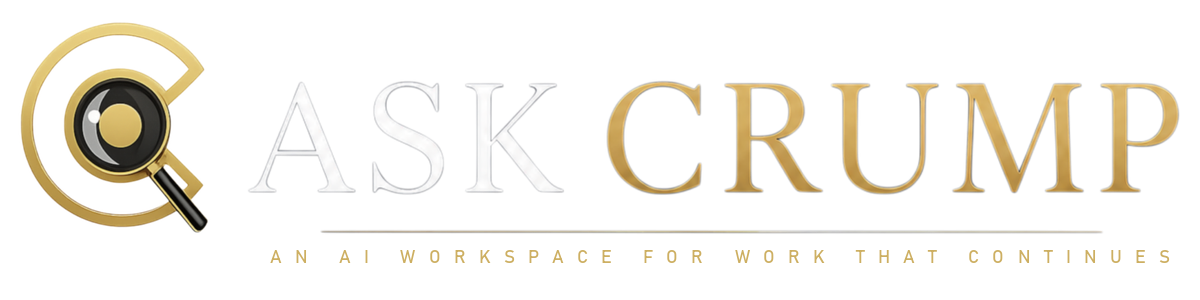
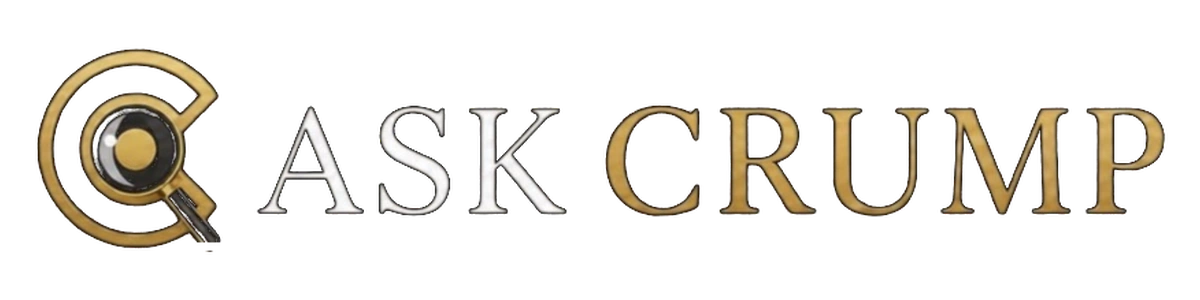
Restore main CI and cache integrity

diff --git a/public/app.html b/public/app.html
@@ -14,7 +14,7 @@
   <link rel="apple-touch-icon" sizes="180x180" href="/assets/ask-crump-app-icon-v2-180.png">
   <link rel="apple-touch-icon-precomposed" sizes="180x180" href="/assets/ask-crump-app-icon-v2-180.png">
   <link rel="preload" as="image" type="image/webp" href="/assets/brand/crump-mark-320.webp" fetchpriority="high">
-  <link rel="preload" as="image" type="image/webp" href="/assets/brand/crump-shell-lockup-light.webp" fetchpriority="high">
+  <link rel="preload" as="image" type="image/webp" href="/assets/brand/crump-shell-lockup-light.webp?v=5.9.76-shell-no-tagline-1" fetchpriority="high">
   <link rel="stylesheet" href="/styles.css">
   <link rel="stylesheet" href="/install-prompt.css?v=5.9.76">
   <link rel="stylesheet" href="/auth-styles.css">
@@ -26,7 +26,7 @@
 <div id="authContainer" class="auth-container v1-auth-shell" style="display:none;">
   <aside class="v1-auth-brand" aria-hidden="true">
     <div class="v1-auth-brand-top">
-      <img src="/assets/brand/crump-shell-lockup-light.webp" width="1200" height="300" alt="" class="v1-auth-brand-wordmark">
+      <img src="/assets/brand/crump-shell-lockup-light.webp?v=5.9.76-shell-no-tagline-1" width="1200" height="300" alt="" class="v1-auth-brand-wordmark">
     </div>
     <div class="v1-auth-manifesto">
       <div class="v1-kicker">YOUR AI WORKSPACE</div>
@@ -40,7 +40,7 @@
 
   <main class="v1-auth-stage">
     <div class="v1-auth-mobile-brand" aria-hidden="true">
-      <img src="/assets/brand/crump-shell-lockup-light.webp" width="1200" height="300" alt="">
+      <img src="/assets/brand/crump-shell-lockup-light.webp?v=5.9.76-shell-no-tagline-1" width="1200" height="300" alt="">
     </div>
 
     <div id="loginForm" class="auth-form v1-auth-card">
@@ -220,7 +220,7 @@
 <!-- ONBOARDING -->
 <div id="onboardingModal" class="modal v1-modal" style="display:none;" role="dialog" aria-modal="true" aria-labelledby="onboardingTitle">
   <div class="modal-content onboarding-modal v1-onboarding-card">
-    <img src="/assets/brand/crump-shell-lockup-light.webp" width="1200" height="300" loading="lazy" decoding="async" alt="Ask Crump — An AI workspace for work that continues" class="onboarding-logo">
+    <img src="/assets/brand/crump-shell-lockup-light.webp?v=5.9.76-shell-no-tagline-1" width="1200" height="300" loading="lazy" decoding="async" alt="Ask Crump" class="onboarding-logo">
     <div class="v1-kicker">OPTIONAL PERSONALIZATION</div>
     <h2 id="onboardingTitle">What should Crump call you?</h2>
     <p class="modal-subtitle">Add a name for personalized greetings across your signed-in devices. You can also do this later in Settings.</p>
@@ -281,7 +281,7 @@
     <aside id="sidebar" class="sidebar v1-library" aria-label="Chats" aria-hidden="false">
       <div class="sidebar-header v1-library-header">
         <div class="sidebar-branding">
-          <img src="/assets/brand/crump-shell-lockup-light.webp" width="1200" height="300" loading="eager" decoding="sync" fetchpriority="high" alt="Ask Crump — An AI workspace for work that continues" class="v1-library-logo">
+          <img src="/assets/brand/crump-shell-lockup-light.webp?v=5.9.76-shell-no-tagline-1" width="1200" height="300" loading="eager" decoding="sync" fetchpriority="high" alt="Ask Crump" class="v1-library-logo">
         </div>
         <button id="closeSidebarBtn" type="button" class="btn-icon v1-library-close" aria-label="Close Chats">
           <svg viewBox="0 0 24 24" aria-hidden="true"><path d="M18 6 6 18M6 6l12 12"/></svg>
@@ -334,7 +334,7 @@
         </button>
 
         <div class="header-branding v1-header-branding">
-          <img src="/assets/brand/crump-shell-lockup-light.webp" width="1200" height="300" loading="eager" decoding="sync" fetchpriority="high" alt="Ask Crump" class="v1-header-logo v1-body-header-logo">
+          <img src="/assets/brand/crump-shell-lockup-light.webp?v=5.9.76-shell-no-tagline-1" width="1200" height="300" loading="eager" decoding="sync" fetchpriority="high" alt="Ask Crump" class="v1-header-logo v1-body-header-logo">
         </div>
 
         <div class="v1-workspace-context">
@@ -624,7 +624,7 @@
             </a>
           </div>
           <div class="v1-about-signature">
-            <img src="/assets/brand/crump-shell-lockup-light.webp" width="1200" height="300" loading="lazy" decoding="async" alt="Ask Crump — An AI workspace for work that continues">
+            <img src="/assets/brand/crump-shell-lockup-light.webp?v=5.9.76-shell-no-tagline-1" width="1200" height="300" loading="lazy" decoding="async" alt="Ask Crump">
             <span>Ask Crump 5.9.76 · Built to think, make, and continue.</span>
           </div>
         </section>
@@ -637,7 +637,7 @@
 <input type="file" id="fileInput" accept="image/*,.pdf,.docx,.xlsx,.pptx,.txt,.md,.csv,.tsv,.json,.html,.rtf" aria-label="Choose an attachment" hidden>
 
 <script defer src="/telemetry-config.js?v=5.9.76"></script>
-<script defer src="/runtime-body-v1.js?v=5.9.76-muse-release-repair-1"></script>
+<script defer src="/runtime-body-v1.js?v=5.9.76-cache-integrity-1"></script>
 <script defer src="/native-runtime.js"></script>
 <script defer src="/mobile-bridge.js"></script>
 <script defer src="/safe-storage.js"></script>

diff --git a/public/sw.js b/public/sw.js
@@ -19,23 +19,23 @@ const CORE = [
   '/credit-confirmation.css?v=5.9.76-credit-confirmation-1',
   '/lifecycle.css?v=5.9.76-lifecycle-activation-1',
   '/crump-design-pass.css?v=5.9.76-mascot-face-1',
-  '/crump-v1-body.js?v=5.9.76-muse-release-repair-1',
+  '/crump-v1-body.js?v=5.9.76-shell-brand-alt-1',
   '/crump-v1-stability.css',
   '/crump-v1-stability.js?v=5.9.76-intelligence-architecture-1',
   '/crump-navigation-5.2.5.css',
   '/crump-navigation-5.2.5.js?v=5.9.76-chats-language-1',
-  '/crump-navigation-5.9.30.css?v=5.9.76-mobile-drawer-destinations-1',
+  '/crump-navigation-5.9.30.css?v=5.9.76-nav-focus-visibility-1',
   '/crump-navigation-5.9.30.js?v=5.9.76-image-studio-entry-1',
   '/crump-code-loader.js?v=5.9.76-code-lazy-load-1',
-  '/crump-product-loader.js?v=5.9.76-reference-fidelity-hard-contract-1',
+  '/crump-product-loader.js?v=5.9.76-projects-empty-state-1',
   '/crump-product-5.3.1.css',
   '/crump-product-5.3.1.js?v=5.9.76-conversation-action-labels-2',
   '/crump-polish-5.6.css',
   '/crump-polish-5.6.js?v=5.9.76-video-destination-1',
   '/crump-media-save.js?v=5.9.76-library-lazy-load-1',
-  '/crump-library-loader.js?v=5.9.76-library-lazy-load-1',
+  '/crump-library-loader.js?v=5.9.76-library-first-run-1',
   '/crump-subscriptions-5.3.2.js?v=5.9.76-checkout-destination-label-1',
-  '/runtime-body-v1.js?v=5.9.76-muse-release-repair-1',
+  '/runtime-body-v1.js?v=5.9.76-cache-integrity-1',
   '/native-runtime.js',
   '/mobile-bridge.js',
   '/safe-storage.js',
@@ -72,7 +72,7 @@ const CORE = [
   '/crump-5.2.js?v=5.9.76-plan-status-line-1',
   '/crump-5.2.2.css?v=5.9.76-new-response-cue-1',
   '/crump-5.2.2.js?v=5.9.76-muse-release-repair-1',
-  '/assets/brand/crump-shell-lockup-light.webp',
+  '/assets/brand/crump-shell-lockup-light.webp?v=5.9.76-shell-no-tagline-1',
   '/assets/brand/crump-mascot.png',
 ];
 

diff --git a/public/crump-v1-body.js b/public/crump-v1-body.js
@@ -6,7 +6,7 @@
 
   const BRAND = Object.freeze({
     mark: '/assets/brand/crump-mark-320.webp',
-    horizontalLight: '/assets/brand/crump-shell-lockup-light.webp',
+    horizontalLight: '/assets/brand/crump-shell-lockup-light.webp?v=5.9.76-shell-no-tagline-1',
   });
 
   const $ = (selector, root = document) => root.querySelector(selector);
@@ -32,7 +32,7 @@
     const existing = host.querySelector(':scope > img');
     if (existing) {
       if (existing.getAttribute('src') !== BRAND.horizontalLight) existing.src = BRAND.horizontalLight;
-      existing.alt = 'Ask Crump — An AI workspace for work that continues';
+      existing.alt = 'Ask Crump';
       existing.classList.add('v1-header-logo', 'v1-body-header-logo');
       existing.width = 1200;
       existing.height = 300;
@@ -44,7 +44,7 @@
     host.replaceChildren(makeImage(
       BRAND.horizontalLight,
       'v1-header-logo v1-body-header-logo',
-      'Ask Crump — An AI workspace for work that continues',
+      'Ask Crump',
       true,
     ));
   }
@@ -55,7 +55,7 @@
     const existing = host.querySelector(':scope > .v1-library-logo');
     if (existing && host.children.length === 1) {
       if (existing.getAttribute('src') !== BRAND.horizontalLight) existing.src = BRAND.horizontalLight;
-      existing.alt = 'Ask Crump — An AI workspace for work that continues';
+      existing.alt = 'Ask Crump';
       existing.width = 1200;
       existing.height = 300;
       existing.loading = 'eager';
@@ -66,7 +66,7 @@
     host.replaceChildren(makeImage(
       BRAND.horizontalLight,
       'v1-library-logo',
-      'Ask Crump — An AI workspace for work that continues',
+      'Ask Crump',
       true,
     ));
   }

diff --git a/public/runtime-body-v1.js b/public/runtime-body-v1.js
@@ -70,18 +70,18 @@ window.CRUMP_CONFIG = Object.freeze({
     ['/crump-billing-5.1.js?v=5.9.76-checkout-destination-label-1', 'billing51'],
     ['/crump-5.2.js?v=5.9.76-plan-status-line-1', 'crump52'],
     ['/crump-5.2.2.js?v=5.9.76-muse-release-repair-1', 'crump522'],
-    ['/crump-v1-body.js?v=5.9.76-muse-release-repair-1', 'crumpbodyv1'],
+    ['/crump-v1-body.js?v=5.9.76-shell-brand-alt-1', 'crumpbodyv1'],
     ['/crump-v1-stability.js?v=5.9.76-intelligence-architecture-1', 'crumpv1stability'],
   ]);
 
   const finalScripts = Object.freeze([
     ['/crump-navigation-5.2.5.js?v=5.9.76-chats-language-1', 'crumpnav525'],
-    ['/crump-product-loader.js?v=5.9.76-reference-fidelity-hard-contract-1', 'crumpproductloader'],
+    ['/crump-product-loader.js?v=5.9.76-projects-empty-state-1', 'crumpproductloader'],
     ['/crump-product-5.3.1.js?v=5.9.76-conversation-action-labels-2', 'crumpproduct531'],
     ['/crump-subscriptions-5.3.2.js?v=5.9.76-checkout-destination-label-1', 'crumpsubscriptions532'],
     ['/crump-polish-5.6.js?v=5.9.76-video-destination-1', 'crumppolish56'],
     ['/crump-media-save.js?v=5.9.76-library-lazy-load-1', 'crumpmediasave'],
-    ['/crump-library-loader.js?v=5.9.76-library-lazy-load-1', 'crumplibraryloader'],
+    ['/crump-library-loader.js?v=5.9.76-library-first-run-1', 'crumplibraryloader'],
     ['/crump-navigation-5.9.30.js?v=5.9.76-image-studio-entry-1', 'crumpnav5930'],
     ['/crump-code-loader.js?v=5.9.76-code-lazy-load-1', 'crumpcodeloader'],
     ['/lifecycle-share.js?v=5.9.76-settings-invite-1', 'lifecycleshare'],

diff --git a/tests/fixtures/conversation-library-discovery.html b/tests/fixtures/conversation-library-discovery.html
@@ -38,7 +38,7 @@
     <aside id="sidebar" class="sidebar v1-library" aria-label="Chats" aria-hidden="false">
       <div class="sidebar-header v1-library-header">
         <div class="sidebar-branding">
-          <img src="/public/assets/brand/crump-shell-lockup-light.webp" width="1200" height="300" loading="eager" decoding="sync" fetchpriority="high" alt="Ask Crump — An AI workspace for work that continues" class="v1-library-logo">
+          <img src="/public/assets/brand/crump-shell-lockup-light.webp?v=5.9.76-shell-no-tagline-1" width="1200" height="300" loading="eager" decoding="sync" fetchpriority="high" alt="Ask Crump" class="v1-library-logo">
         </div>
       </div>
       <div class="sidebar-actions v1-library-actions">

diff --git a/tests/fixtures/marketing-workflow-proof.html b/tests/fixtures/marketing-workflow-proof.html
@@ -46,7 +46,7 @@
   <div id="appContainer" class="app-container" style="display:flex">
     <main class="proof-shell" aria-label="Ask Crump workspace">
       <header class="proof-header">
-        <img src="/public/assets/brand/crump-shell-lockup-light.webp" width="1200" height="300" alt="Ask Crump — An AI workspace for work that continues">
+        <img src="/public/assets/brand/crump-shell-lockup-light.webp?v=5.9.76-shell-no-tagline-1" width="1200" height="300" alt="Ask Crump">
         <div class="proof-context"><span>WORKSPACE</span><strong id="proofTitle">New conversation</strong></div>
       </header>
       <section class="proof-workspace">

diff --git a/tests/test_button_integrity.py b/tests/test_button_integrity.py
@@ -22,10 +22,10 @@ EXPECTED_BUTTON_INVENTORY = {
     "public/crump-5.2.js": 5,
     "public/crump-billing-5.1.js": 3,
     "public/crump-code-5.9.35.js": 4,
-    "public/crump-library-5.7.js": 41,
+    "public/crump-library-5.7.js": 43,
     "public/crump-navigation-5.9.30.js": 4,
     "public/crump-product-5.3.1.js": 10,
-    "public/crump-product-5.3.js": 57,
+    "public/crump-product-5.3.js": 58,
     "public/install-prompt.js": 2,
     "public/lifecycle-manager.js": 2,
     "public/subscription-ui.js": 3,
@@ -289,7 +289,7 @@ def test_rendered_button_inventory_requires_explicit_review() -> None:
             inventory[page.relative_to(ROOT).as_posix()] = len(parser.buttons)
 
     assert inventory == EXPECTED_BUTTON_INVENTORY
-    assert sum(inventory.values()) == 190
+    assert sum(inventory.values()) == 193
 
 
 def test_programmatically_created_button_inventory_requires_explicit_review() -> None:
@@ -301,7 +301,7 @@ def test_programmatically_created_button_inventory_requires_explicit_review() ->
 
     assert inventory == DYNAMIC_BUTTON_INVENTORY
     assert sum(inventory.values()) == 99
-    assert sum(EXPECTED_BUTTON_INVENTORY.values()) + sum(inventory.values()) == 289
+    assert sum(EXPECTED_BUTTON_INVENTORY.values()) + sum(inventory.values()) == 292
 
 
 def test_programmatically_created_buttons_declare_type_and_runtime_owner() -> None:
@@ -580,7 +580,7 @@ def test_send_button_is_really_disabled_until_the_composer_has_content() -> None
 
 
 def test_send_button_actionability_release_is_cache_addressable_everywhere() -> None:
-    asset = "/crump-4.3.js?v=5.9.76-composer-actionability-1"
+    asset = "/crump-4.3.js?v=5.9.76-mascot-face-1"
 
     for relative in ("public/runtime-body-v1.js", "public/sw.js", "scripts/build-native.mjs"):
         assert asset in (ROOT / relative).read_text(encoding="utf-8")
@@ -701,7 +701,7 @@ def test_library_layout_buttons_expose_their_selected_state() -> None:
 
 
 def test_library_new_button_release_is_loaded_only_on_library_entry() -> None:
-    asset = "/crump-library-5.7.js?v=5.9.76-library-new-routing-1"
+    asset = "/crump-library-5.7.js?v=5.9.76-library-first-run-1"
     loader = (PUBLIC / "crump-library-loader.js").read_text(encoding="utf-8")
 
     assert asset in loader

diff --git a/tests/test_static_assets.py b/tests/test_static_assets.py
@@ -102,7 +102,7 @@ def test_signed_out_entry_eagerly_loads_only_visible_brand_images():
     brand_images = [
         image for image in parser.images
         if image.get('src') in {
-            '/assets/brand/crump-shell-lockup-light.webp',
+            '/assets/brand/crump-shell-lockup-light.webp?v=5.9.76-shell-no-tagline-1',
             '/assets/brand/crump-mark-320.webp',
         }
     ]
@@ -110,7 +110,8 @@ def test_signed_out_entry_eagerly_loads_only_visible_brand_images():
     deferred_images = [image for image in brand_images if image.get('loading') == 'lazy']
 
     assert len(eager_images) == 5
-    assert sum(image['src'] == '/assets/brand/crump-shell-lockup-light.webp' for image in eager_images) == 4
+    shell_brand = '/assets/brand/crump-shell-lockup-light.webp?v=5.9.76-shell-no-tagline-1'
+    assert sum(image['src'] == shell_brand for image in eager_images) == 4
     startup_mark = next(image for image in eager_images if image['src'] == '/assets/brand/crump-mark-320.webp')
     assert startup_mark.get('loading') == 'eager'
     assert startup_mark.get('decoding') == 'sync'
@@ -120,13 +121,13 @@ def test_signed_out_entry_eagerly_loads_only_visible_brand_images():
     assert header_logo.get('fetchpriority') == 'high'
     assert header_logo.get('width') == '1200'
     assert header_logo.get('height') == '300'
-    assert 'An AI workspace for work that continues' in header_logo.get('alt', '')
+    assert header_logo.get('alt') == 'Ask Crump'
     library_logo = next(image for image in eager_images if 'v1-library-logo' in image.get('class', '').split())
     assert library_logo.get('decoding') == 'sync'
     assert library_logo.get('fetchpriority') == 'high'
     assert library_logo.get('width') == '1200'
     assert library_logo.get('height') == '300'
-    assert 'An AI workspace for work that continues' in library_logo.get('alt', '')
+    assert library_logo.get('alt') == 'Ask Crump'
     assert len(deferred_images) == len(brand_images) - 5
     assert all(image.get('decoding') == 'async' for image in deferred_images)
     assert all(image.get('width') and image.get('height') for image in brand_images)

diff --git a/tests/test_workspace_runtime_fetch_plan.py b/tests/test_workspace_runtime_fetch_plan.py
@@ -53,7 +53,7 @@ def test_parallel_runtime_asset_is_versioned_for_web_pwa_and_native():
     worker = read("public/sw.js")
     checker = read("scripts/check-javascript.mjs")
 
-    asset = "/runtime-body-v1.js?v=5.9.76-muse-release-repair-1"
+    asset = "/runtime-body-v1.js?v=5.9.76-cache-integrity-1"
     assert asset in shell
     assert asset in worker
     assert "ask-crump-new-body-v1-r254" in worker
@@ -87,7 +87,7 @@ def test_runtime_fetch_fixture_is_credential_free_and_measures_the_full_plan():
     assert "askcrump.com" not in fixture.lower()
     assert "verify-workspace-runtime-fetch-plan.cjs" in matrix
     assert "evidence.maxStyles, 17" in verifier
-    assert "evidence.lastStyle, '/crump-design-pass.css?v=5.9.76-muse-release-repair-1'" in verifier
+    assert "evidence.lastStyle, '/crump-design-pass.css?v=5.9.76-mascot-face-1'" in verifier
     assert "evidence.preloadCount, 34" in verifier
     assert "mode === 'style-retry' ? 19 : 18" in verifier
     assert "mode === 'script-retry' ? 35 : 34" in verifier
@@ -134,7 +134,7 @@ def test_image_studio_entry_replaces_the_frozen_r252_runtime_cache():
     ):
         assert old_url in verifier
     for new_url in (
-        "/runtime-body-v1.js?v=5.9.76-muse-release-repair-1",
+        "/runtime-body-v1.js?v=5.9.76-cache-integrity-1",
         "/crump-navigation-5.9.30.js?v=5.9.76-image-studio-entry-1",
         "/auth-controller.js?v=5.9.76-image-studio-entry-1",
     ):
@@ -152,7 +152,9 @@ def test_muse_release_repair_replaces_the_immediate_r253_runtime_cache():
 
     assert "oldCacheName = 'ask-crump-new-body-v1-r253'" in verifier
     assert "newCacheName = 'ask-crump-new-body-v1-r254'" in verifier
-    assert "5.9.76-muse-release-repair-1" in verifier
+    assert "async function loadNewUrls()" in verifier
+    assert "current versioned asset URLs" in verifier
+    assert "muse-feel-pass-N or mascot-face-N" in verifier
     assert "userControlledViewport: true" in verifier
     assert "cachedRepairAssets: true" in verifier
     assert "verify-muse-release-cache-upgrade.cjs" in matrix

diff --git a/tests/test_product53_contract.py b/tests/test_product53_contract.py
@@ -12,14 +12,14 @@ def test_product53_runtime_is_lazy_loaded_and_cache_addressable():
     worker = read("public/sw.js")
     checker = read("scripts/check-javascript.mjs")
     loader = read("public/crump-product-loader.js")
-    assert "/crump-product-loader.js?v=5.9.76-reference-fidelity-hard-contract-1" in runtime
-    assert "/crump-product-loader.js?v=5.9.76-reference-fidelity-hard-contract-1" in worker
+    assert "/crump-product-loader.js?v=5.9.76-projects-empty-state-1" in runtime
+    assert "/crump-product-loader.js?v=5.9.76-projects-empty-state-1" in worker
     assert "/crump-product-5.3.css?v=5.9.76-reference-fidelity-hard-contract-1" not in runtime
     assert "/crump-product-5.3.js?v=5.9.76-reference-fidelity-hard-contract-1" not in runtime
     assert "/crump-product-5.3.css?v=5.9.76-reference-fidelity-hard-contract-1" not in worker
     assert "/crump-product-5.3.js?v=5.9.76-reference-fidelity-hard-contract-1" not in worker
-    assert "/crump-product-5.3.css?v=5.9.76-reference-fidelity-hard-contract-1" in loader
-    assert "/crump-product-5.3.js?v=5.9.76-reference-fidelity-hard-contract-1" in loader
+    assert "/crump-product-5.3.css?v=5.9.76-projects-empty-state-1" in loader
+    assert "/crump-product-5.3.js?v=5.9.76-projects-empty-state-1" in loader
     assert runtime.index("/crump-navigation-5.2.5.js") < runtime.index("/crump-product-loader.js")
     assert "ask-crump-new-body-v1-r254" in worker
     assert "crump-product-5.3.js" in checker

diff --git a/tests/test_header_brand_stability.py b/tests/test_header_brand_stability.py
@@ -30,18 +30,17 @@ def test_visible_library_brand_is_also_normalized_as_a_critical_image():
     body = read("public/crump-v1-body.js")
 
     assert "const existing = host.querySelector(':scope > .v1-library-logo');" in body
-    assert "'Ask Crump — An AI workspace for work that continues',\n      true," in body
-    assert "horizontalLight: '/assets/brand/crump-shell-lockup-light.webp'" in body
+    assert "'Ask Crump',\n      true," in body
+    assert "horizontalLight: '/assets/brand/crump-shell-lockup-light.webp?v=5.9.76-shell-no-tagline-1'" in body
 
 
-def test_workspace_positioning_is_part_of_the_canonical_brand_asset():
+def test_workspace_positioning_asset_cannot_overwrite_the_shell_lockup():
     generator = read("scripts/generate_workspace_brand_asset.py")
 
     assert 'TAGLINE = "AN AI WORKSPACE FOR WORK THAT CONTINUES"' in generator
     assert 'SOURCE_WORDMARK = ROOT / "public" / "assets" / "brand" / "crump-horizontal-light.png"' in generator
     assert 'WORDMARK = ROOT / "public" / "assets" / "brand" / "crump-workspace-lockup-light.png"' in generator
-    assert 'SHELL_WORDMARK = ROOT / "public" / "assets" / "brand" / "crump-shell-lockup-light.png"' in generator
-    assert 'shell = Image.new("RGBA", (1200, 300)' in generator
+    assert 'crump-shell-lockup-light' not in generator
 
 
 def test_shell_lockup_uses_exact_paint_boxes():

diff --git a/scripts/generate_workspace_brand_asset.py b/scripts/generate_workspace_brand_asset.py
@@ -8,7 +8,6 @@ from PIL import Image, ImageDraw, ImageFont
 ROOT = Path(__file__).resolve().parents[1]
 SOURCE_WORDMARK = ROOT / "public" / "assets" / "brand" / "crump-horizontal-light.png"
 WORDMARK = ROOT / "public" / "assets" / "brand" / "crump-workspace-lockup-light.png"
-SHELL_WORDMARK = ROOT / "public" / "assets" / "brand" / "crump-shell-lockup-light.png"
 TAGLINE = "AN AI WORKSPACE FOR WORK THAT CONTINUES"
 TAGLINE_TOP = 238
 TAGLINE_X = 270
@@ -68,16 +67,6 @@ def main() -> None:
     temporary = WORDMARK.with_suffix(".tmp.png")
     image.save(temporary, format="PNG", optimize=True)
     temporary.replace(WORDMARK)
-
-    # The application shell renders the lockup at exact 4:1 boxes. A dedicated
-    # 1200x300 canvas avoids fractional image scaling during the authenticated
-    # runtime handoff while preserving the approved social-positioning artwork.
-    shell = Image.new("RGBA", (1200, 300), (0, 0, 0, 0))
-    shell.alpha_composite(image, (0, 2))
-    shell_temporary = SHELL_WORDMARK.with_suffix(".tmp.png")
-    shell.save(shell_temporary, format="PNG", optimize=True)
-    shell_temporary.replace(SHELL_WORDMARK)
-
 
 if __name__ == "__main__":
     main()
